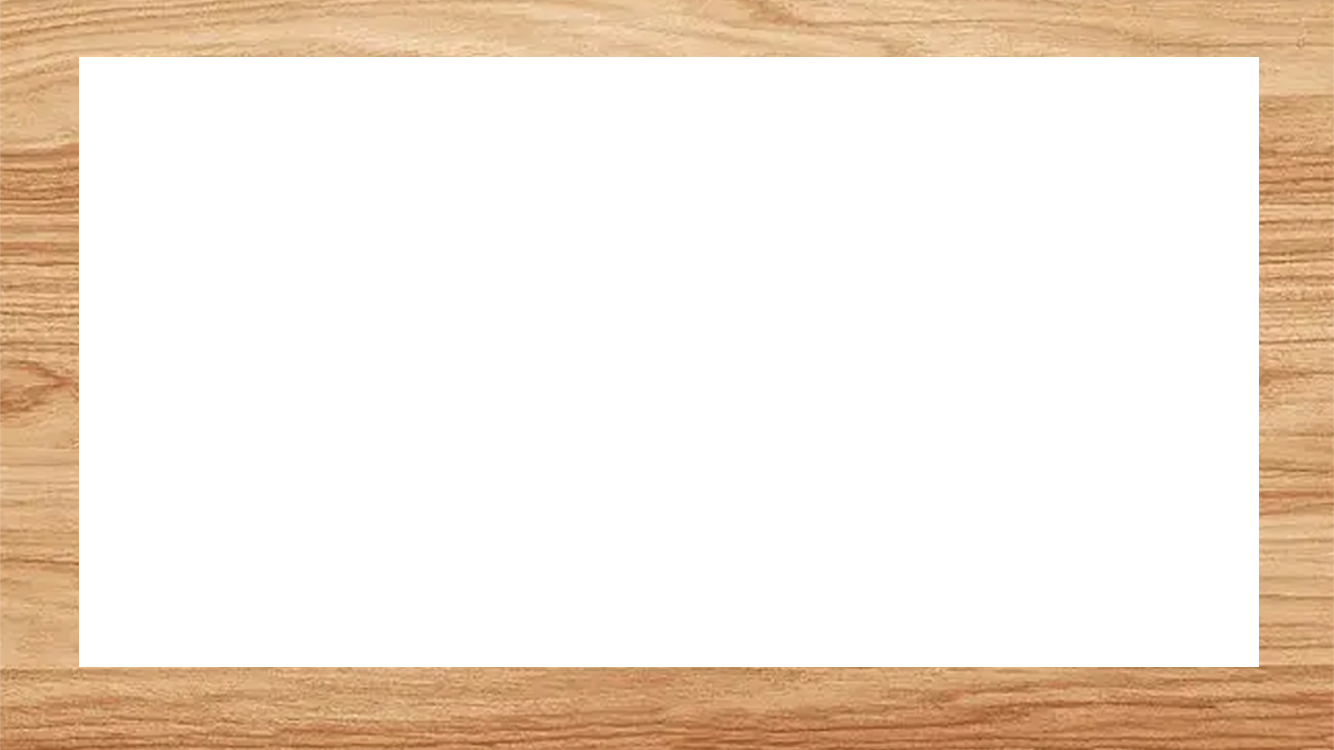
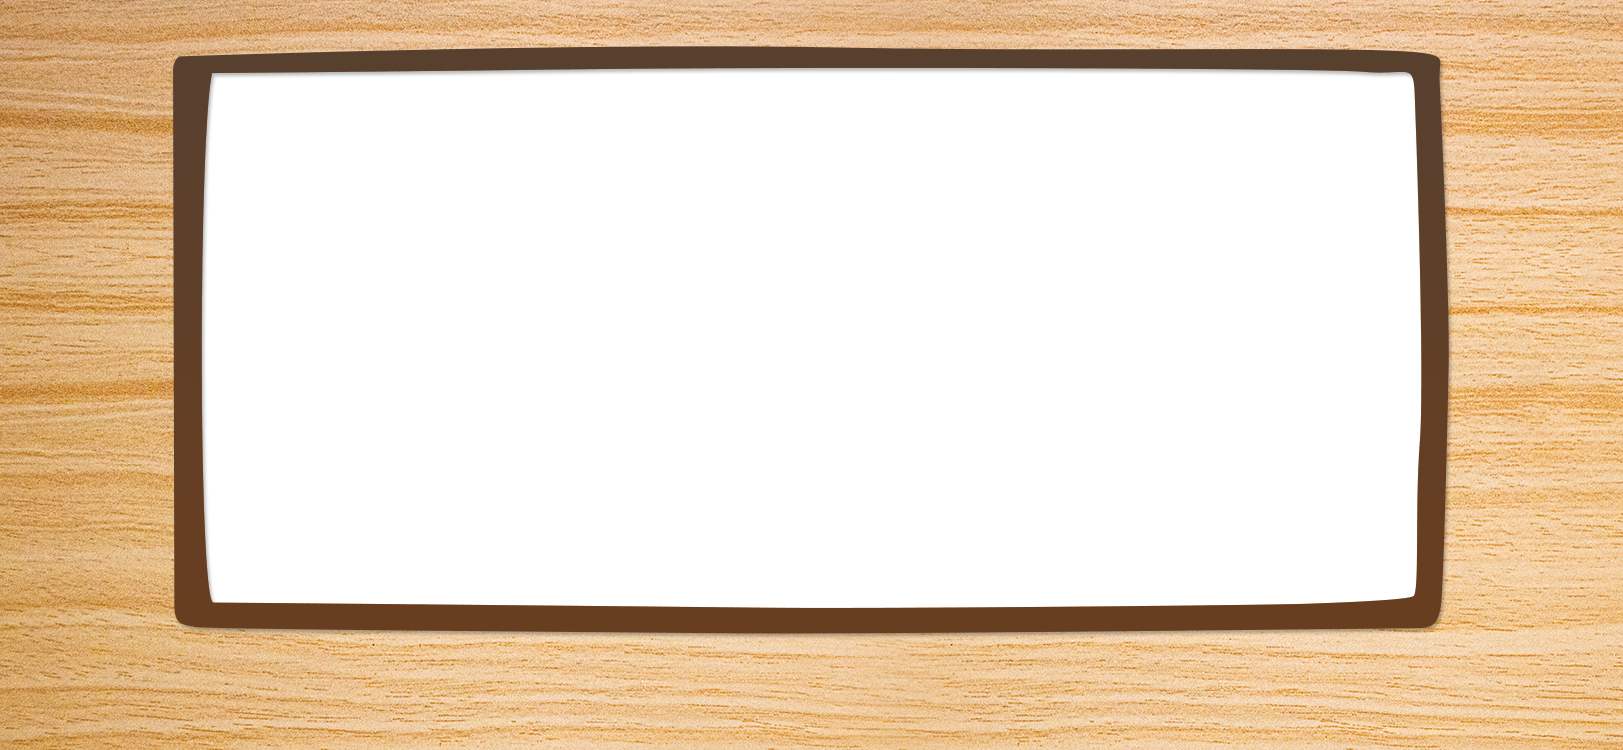
'修改画画'

diff --git a/draw/js/main.min_f98fef74.js b/draw/js/main.min_f98fef74.js
@@ -1,0 +1,1 @@
+var extendStatics=Object.setPrototypeOf||{__proto__:[]}instanceof Array&&function(t,e){t.__proto__=e}||function(t,e){for(var n in e)e.hasOwnProperty(n)&&(t[n]=e[n])},__extends=function(t,e){function n(){this.constructor=t}extendStatics(t,e),t.prototype=null===e?Object.create(e):(n.prototype=e.prototype,new n)},__assign=Object.assign||function(t){for(var e,n=1,r=arguments.length;r>n;n++){e=arguments[n];for(var i in e)Object.prototype.hasOwnProperty.call(e,i)&&(t[i]=e[i])}return t},__rest=function(t,e){var n={};for(var r in t)Object.prototype.hasOwnProperty.call(t,r)&&e.indexOf(r)<0&&(n[r]=t[r]);if(null!=t&&"function"==typeof Object.getOwnPropertySymbols)for(var i=0,r=Object.getOwnPropertySymbols(t);i<r.length;i++)e.indexOf(r[i])<0&&Object.prototype.propertyIsEnumerable.call(t,r[i])&&(n[r[i]]=t[r[i]]);return n},__decorate=function(t,e,n,r){var i,o=arguments.length,a=3>o?e:null===r?r=Object.getOwnPropertyDescriptor(e,n):r;if("object"==typeof Reflect&&"function"==typeof Reflect.decorate)a=Reflect.decorate(t,e,n,r);else for(var s=t.length-1;s>=0;s--)(i=t[s])&&(a=(3>o?i(a):o>3?i(e,n,a):i(e,n))||a);return o>3&&a&&Object.defineProperty(e,n,a),a},__param=function(t,e){return function(n,r){e(n,r,t)}},__metadata=function(t,e){return"object"==typeof Reflect&&"function"==typeof Reflect.metadata?Reflect.metadata(t,e):void 0},__awaiter=function(t,e,n,r){function i(t){return t instanceof n?t:new n(function(e){e(t)})}return new(n||(n=Promise))(function(n,o){function a(t){try{c(r.next(t))}catch(e){o(e)}}function s(t){try{c(r["throw"](t))}catch(e){o(e)}}function c(t){t.done?n(t.value):i(t.value).then(a,s)}c((r=r.apply(t,e||[])).next())})},__generator=function(t,e){function n(t){return function(e){return r([t,e])}}function r(n){if(i)throw new TypeError("Generator is already executing.");for(;c;)try{if(i=1,o&&(a=2&n[0]?o["return"]:n[0]?o["throw"]||((a=o["return"])&&a.call(o),0):o.next)&&!(a=a.call(o,n[1])).done)return a;switch(o=0,a&&(n=[2&n[0],a.value]),n[0]){case 0:case 1:a=n;break;case 4:return c.label++,{value:n[1],done:!1};case 5:c.label++,o=n[1],n=[0];continue;case 7:n=c.ops.pop(),c.trys.pop();continue;default:if(a=c.trys,!(a=a.length>0&&a[a.length-1])&&(6===n[0]||2===n[0])){c=0;continue}if(3===n[0]&&(!a||n[1]>a[0]&&n[1]<a[3])){c.label=n[1];break}if(6===n[0]&&c.label<a[1]){c.label=a[1],a=n;break}if(a&&c.label<a[2]){c.label=a[2],c.ops.push(n);break}a[2]&&c.ops.pop(),c.trys.pop();continue}n=e.call(t,c)}catch(r){n=[6,r],o=0}finally{i=a=0}if(5&n[0])throw n[1];return{value:n[0]?n[1]:void 0,done:!0}}var i,o,a,s,c={label:0,sent:function(){if(1&a[0])throw a[1];return a[1]},trys:[],ops:[]};return s={next:n(0),"throw":n(1),"return":n(2)},"function"==typeof Symbol&&(s[Symbol.iterator]=function(){return this}),s},__exportStar=function(t,e){for(var n in t)"default"===n||e.hasOwnProperty(n)||__createBinding(e,t,n)},__createBinding=Object.create?function(t,e,n,r){void 0===r&&(r=n),Object.defineProperty(t,r,{enumerable:!0,get:function(){return e[n]}})}:function(t,e,n,r){void 0===r&&(r=n),t[r]=e[n]},__values=function(t){var e="function"==typeof Symbol&&Symbol.iterator,n=e&&t[e],r=0;if(n)return n.call(t);if(t&&"number"==typeof t.length)return{next:function(){return t&&r>=t.length&&(t=void 0),{value:t&&t[r++],done:!t}}};throw new TypeError(e?"Object is not iterable.":"Symbol.iterator is not defined.")},__read=function(t,e){var n="function"==typeof Symbol&&t[Symbol.iterator];if(!n)return t;var r,i,o=n.call(t),a=[];try{for(;(void 0===e||e-->0)&&!(r=o.next()).done;)a.push(r.value)}catch(s){i={error:s}}finally{try{r&&!r.done&&(n=o["return"])&&n.call(o)}finally{if(i)throw i.error}}return a},__spread=function(){for(var t=[],e=0;e<arguments.length;e++)t=t.concat(__read(arguments[e]));return t},__spreadArrays=function(){for(var t=0,e=0,n=arguments.length;n>e;e++)t+=arguments[e].length;for(var r=Array(t),i=0,e=0;n>e;e++)for(var o=arguments[e],a=0,s=o.length;s>a;a++,i++)r[i]=o[a];return r},__await=function(t){return this instanceof __await?(this.v=t,this):new __await(t)},__asyncGenerator=function(t,e,n){function r(t){u[t]&&(h[t]=function(e){return new Promise(function(n,r){d.push([t,e,n,r])>1||i(t,e)})})}function i(t,e){try{o(u[t](e))}catch(n){c(d[0][3],n)}}function o(t){t.value instanceof __await?Promise.resolve(t.value.v).then(a,s):c(d[0][2],t)}function a(t){i("next",t)}function s(t){i("throw",t)}function c(t,e){t(e),d.shift(),d.length&&i(d[0][0],d[0][1])}if(!Symbol.asyncIterator)throw new TypeError("Symbol.asyncIterator is not defined.");var h,u=n.apply(t,e||[]),d=[];return h={},r("next"),r("throw"),r("return"),h[Symbol.asyncIterator]=function(){return this},h},__asyncDelegator=function(t){function e(e,i){n[e]=t[e]?function(n){return(r=!r)?{value:__await(t[e](n)),done:"return"===e}:i?i(n):n}:i}var n,r;return n={},e("next"),e("throw",function(t){throw t}),e("return"),n[Symbol.iterator]=function(){return this},n},__asyncValues=function(t){function e(e){r[e]=t[e]&&function(r){return new Promise(function(i,o){r=t[e](r),n(i,o,r.done,r.value)})}}function n(t,e,n,r){Promise.resolve(r).then(function(e){t({value:e,done:n})},e)}if(!Symbol.asyncIterator)throw new TypeError("Symbol.asyncIterator is not defined.");var r,i=t[Symbol.asyncIterator];return i?i.call(t):(t="function"==typeof __values?__values(t):t[Symbol.iterator](),r={},e("next"),e("throw"),e("return"),r[Symbol.asyncIterator]=function(){return this},r)},__makeTemplateObject=function(t,e){return Object.defineProperty?Object.defineProperty(t,"raw",{value:e}):t.raw=e,t},__setModuleDefault=Object.create?function(t,e){Object.defineProperty(t,"default",{enumerable:!0,value:e})}:function(t,e){t["default"]=e},__importStar=function(t){if(t&&t.__esModule)return t;var e={};if(null!=t)for(var n in t)Object.hasOwnProperty.call(t,n)&&__createBinding(e,t,n);return __setModuleDefault(e,t),e},__importDefault=function(t){return t&&t.__esModule?t:{"default":t}},__classPrivateFieldGet=function(t,e){if(!e.has(t))throw new TypeError("attempted to get private field on non-instance");return e.get(t)},__classPrivateFieldSet=function(t,e,n){if(!e.has(t))throw new TypeError("attempted to set private field on non-instance");return e.set(t,n),n},__reflect=function(t,e,n){t.__class__=e,n?n.push(e):n=[e],t.__types__=t.__types__?n.concat(t.__types__):n};!function(t){function e(r){if(n[r])return n[r].exports;var i=n[r]={i:r,l:!1,exports:{}};return t[r].call(i.exports,i,i.exports,e),i.l=!0,i.exports}var n={};return e.m=t,e.c=n,e.d=function(t,n,r){e.o(t,n)||Object.defineProperty(t,n,{enumerable:!0,get:r})},e.r=function(t){"undefined"!=typeof Symbol&&Symbol.toStringTag&&Object.defineProperty(t,Symbol.toStringTag,{value:"Module"}),Object.defineProperty(t,"__esModule",{value:!0})},e.t=function(t,n){if(1&n&&(t=e(t)),8&n)return t;if(4&n&&"object"==typeof t&&t&&t.__esModule)return t;var r=Object.create(null);if(e.r(r),Object.defineProperty(r,"default",{enumerable:!0,value:t}),2&n&&"string"!=typeof t)for(var i in t)e.d(r,i,function(e){return t[e]}.bind(null,i));return r},e.n=function(t){var n=t&&t.__esModule?function(){return t["default"]}:function(){return t};return e.d(n,"a",n),n},e.o=function(t,e){return Object.prototype.hasOwnProperty.call(t,e)},e.p="",e(e.s=0)}([function(t,e,n){n(1),n(2),n(0),n(3),n(4),n(5);var r=function(t){function e(){var e=t.call(this)||this;return e.addEventListener(egret.Event.ADDED_TO_STAGE,e.onAddToStage,e),e}return __extends(e,t),e.prototype.onAddToStage=function(t){egret.lifecycle.addLifecycleListener(function(t){t.onUpdate=function(){}}),egret.lifecycle.onPause=function(){egret.ticker.pause()},egret.lifecycle.onResume=function(){egret.ticker.resume()},this.runGame()["catch"](function(t){console.log(t)})},e.prototype.runGame=function(){return __awaiter(this,void 0,void 0,function(){var t,e;return __generator(this,function(n){switch(n.label){case 0:return[4,this.loadResource()];case 1:return n.sent(),this.createGameScene(),[4,RES.getResAsync("description_json")];case 2:return t=n.sent(),[4,platform.login()];case 3:return n.sent(),[4,platform.getUserInfo()];case 4:return e=n.sent(),console.log(e),[2]}})})},e.prototype.loadResource=function(){return __awaiter(this,void 0,void 0,function(){var t,e;return __generator(this,function(n){switch(n.label){case 0:return n.trys.push([0,3,,4]),t=new LoadingUI,this.stage.addChild(t),[4,RES.loadConfig("resource/default.res.json","resource/")];case 1:return n.sent(),[4,RES.loadGroup("preload",0,t)];case 2:return n.sent(),this.stage.removeChild(t),[3,4];case 3:return e=n.sent(),console.error(e),[3,4];case 4:return[2]}})})},e.prototype.createGameScene=function(){var t=Game.createBitmapByName("indexbg_png");this.stage.addChild(t);var e=Game.createBitmapByName("index_btn_png");this.stage.addChild(e),e.x=800,e.y=400,e.touchEnabled=!0,e.addEventListener(egret.TouchEvent.TOUCH_TAP,this.drawPage,this);var n=Game.createBitmapByName("index_btn_png");this.stage.addChild(n),n.x=400,n.y=400,n.touchEnabled=!0,n.addEventListener(egret.TouchEvent.TOUCH_TAP,this.Coloring,this),this.drawPage()},e.prototype.Coloring=function(){this.colorpage=new Game.colorpage,this.stage.addChild(this.colorpage)},e.prototype.drawPage=function(){this.drawpage=new Game.drawpage,this.stage.addChild(this.drawpage)},e.prototype.createBitmapByName=function(t){var e=new egret.Bitmap,n=RES.getRes(t);return e.texture=n,e},e.prototype.startAnimation=function(t){var e=this,n=new egret.HtmlTextParser,r=t.map(function(t){return n.parse(t)}),i=this.textfield,o=-1,a=function(){o++,o>=r.length&&(o=0);var t=r[o];i.textFlow=t;var n=egret.Tween.get(i);n.to({alpha:1},200),n.wait(2e3),n.to({alpha:0},200),n.call(a,e)};a()},e}(egret.DisplayObjectContainer);window.Main=r,__reflect(r.prototype,"Main",[])},function(t,e){var n,n=window.Game;!function(t){function e(t){var e=t.$bitmapHeight*t.width/t.$bitmapWidth;return e}function n(t){var e=new egret.Bitmap,n=RES.getRes(t);return e.texture=n,e}function r(e,n,r){var i=t.createBitmapByName(e);return i.anchorOffsetX=i.width/2,i.anchorOffsetY=i.height/2,i.x=n,i.y=r,i}function i(e,n,r){var i=t.createBitmapByName(e);return i.x=n,i.y=r,i}function o(t,e,n){t.touchEnabled=!0,t.addEventListener(egret.TouchEvent.TOUCH_TAP,e,n)}function a(t){var e=0;return e=window.innerHeight/window.innerWidth>1450/750?t:(1450-750/window.innerWidth*window.innerHeight)/2+t}function s(t){var e=0;return e=window.innerHeight/window.innerWidth<1450/750?t:(750-1450/window.innerHeight*window.innerWidth)/2+t}function c(t){var e=egret.Tween.get(t,{loop:!1});e.to({scaleX:0,scaleY:0},0),e.to({scaleX:1,scaleY:1},500,egret.Ease.backOut)}function h(t,e,n){var r=egret.Tween.get(t,{loop:!1});r.to({scaleX:.5,scaleY:.5,alpha:0},400,egret.Ease.backIn).call(function(){console.log(typeof n),e.removeChild(t),"function"==typeof n&&n&&n()})}function u(e,n,r){r.removeChild(e),t.boxIn(n)}function d(t){var e=egret.Tween.get(t,{loop:!0});e.to({scaleX:1.03,scaleY:1.03},250),e.to({scaleX:.97,scaleY:.97},500),e.to({scaleX:1,scaleY:1},250)}function l(e,n,r){var i=t.addZhedottap();r.addChild(i);var o=egret.Tween.get(e,{loop:!1});o.to({x:-750},500,egret.Ease.sineOut).call(function(t){r.removeChild(e),r.removeChild(i)});var a=egret.Tween.get(n,{loop:!1});a.to({x:750},0),a.to({x:0},500,egret.Ease.sineOut)}function p(e,n,r){var i=t.addZhedottap();r.addChild(i);var o=egret.Tween.get(e,{loop:!1});o.to({x:750},500,egret.Ease.sineIn).call(function(t){r.removeChild(e),r.removeChild(i)});var a=egret.Tween.get(n,{loop:!1});a.to({x:-750},0),a.to({x:0},500,egret.Ease.sineIn)}function g(){var t=new egret.Sprite;return t.anchorOffsetX=t.width/2,t.anchorOffsetY=t.height/2,t.x=375,t.y=725,t}function f(){var t=new egret.Shape;return t.graphics.beginFill(0),t.graphics.drawRect(0,0,750,1450),t.graphics.endFill(),t.alpha=0,t.touchEnabled=!0,t}function v(t){var e=new egret.Shape;e.graphics.beginFill(0),e.graphics.drawRect(-375,-725,750,1450),e.graphics.endFill(),e.alpha=0,e.touchEnabled=!0,t.addChild(e)}function y(t){var e="",n=Math.floor(t/60)<10?"0"+String(Math.floor(t/60)):String(Math.floor(t/60)),r=Math.floor(t%60)<10?"0"+String(Math.floor(t%60)):String(Math.floor(t%60)),i=1e3*Number((t-Math.floor(t)).toFixed(3)),o="";return o=10>i?"00"+String(i):100>i?"0"+String(i):String(i),e=n+":"+r+":"+o}function w(e,n){var r=this;return new Promise(function(i,o){var a=t.config.istest?t.config.apiurl+t.config.urlPath+e:t.config.urlPath+e,s=new egret.URLLoader;s.dataFormat=egret.URLLoaderDataFormat.TEXT,s.addEventListener(egret.Event.COMPLETE,function(t){var e=t.target,n=e.data;if(n){var r=JSON.parse(String(n));i(r)}},r);var c=new egret.URLRequest(a),h=new egret.URLRequestHeader("openid","o8snajuSxNHS0Ehxnp25TCKC9puk");t.config.istest&&c.requestHeaders.push(h),c.method=egret.URLRequestMethod.POST,c.data=new egret.URLVariables(n),s.load(c)})}var _=function(){function t(){}return t.apiurl="https://h5test.xingkech5.com/car_racing/",t.urlPath="ajax/",t.today="",t.activityDay=["2021-11-01","2021-11-02","2021-11-03","2021-11-04","2021-11-05","2021-11-06","2021-10-29"],t.todayRoad=[],t.myTimes=0,t.istest=!1,t.colorlist=[16777215,16245849,16368957,16231730,15634012,16018213,14366519,16535145,13708875,10472683,3375050,4368816,7224429,4351780,7119913,10533427,8104815,6175517,2563106,12303532],t}();t.config=_,__reflect(_.prototype,"Game.config",[]);var m=function(){function t(){}return t.hitTest=function(t,e){var n=t.getBounds(),r=e.getBounds();return n.x=t.x,n.y=t.y,r.x=e.x-60,r.y=e.y,n.intersects(r)},t.hitTestporn=function(t,e,n){var r,i=n.getBounds();return r.x=t,r.y=e,i.x=n.x-60,i.y=n.y,r.intersects(i)},t}();t.GameUtil=m,__reflect(m.prototype,"Game.GameUtil",[]),t.autoHeight=e,t.createBitmapByName=n,t.addChildFastCen=r,t.addChildFast=i,t.touchTap=o,t.autoY=a,t.autoX=s,t.boxIn=c,t.boxOut=h,t.boxOutIn=u,t.btnpluse=d,t.pagego=l,t.pageback=p,t.creatTanchuan=g,t.addZhedottap=f,t.addZhe=v,t.timeToString=y,t.urlRequest=w}(n||(n={})),window.Game=n},function(t,e){var n=function(t){function e(){var e=t.call(this)||this;return e.createView(),e}return __extends(e,t),e.prototype.createView=function(){this.textField=new egret.TextField,this.addChild(this.textField),this.textField.y=300,this.textField.width=480,this.textField.height=100,this.textField.textAlign="center"},e.prototype.onProgress=function(t,e){this.textField.text="Loading..."+t+"/"+e},e}(egret.Sprite);window.LoadingUI=n,__reflect(n.prototype,"LoadingUI",["RES.PromiseTaskReporter"])},function(t,e){var n=function(){function t(){}return t.prototype.getUserInfo=function(){return __awaiter(this,void 0,void 0,function(){return __generator(this,function(t){return[2,{nickName:"username"}]})})},t.prototype.login=function(){return __awaiter(this,void 0,void 0,function(){return __generator(this,function(t){return[2]})})},t}();window.DebugPlatform=n,__reflect(n.prototype,"DebugPlatform",["Platform"]),window.platform||(window.platform=new n)},function(t,e){var n,n=window.Game;!function(t){var e=function(e){function n(){var t=e.call(this)||this;return t.color=0,t.drawthings=[],t.applesvg=[{type:"moveTo",props:{x:75.5,y:24.5,relative:!1}},{type:"curveTo",props:{x1:75.5,y1:24.5,x2:69.5,y2:-.5,x:25.5,y:7.5,relative:!1}},{type:"curveTo",props:{x1:25.5,y1:7.5,x2:-30.5,y2:33.5,x:29.5,y:110.5,relative:!1}},{type:"lineTo",props:{x:58.5,y:129.5,relative:!1}},{type:"curveTo",props:{x1:58.5,y1:129.5,x2:69.5,y2:119.5,x:74.5,y:119.5,relative:!1}},{type:"curveTo",props:{x1:79.5,y1:119.5,x2:87.5,y2:125.5,x:90.5,y:128.5,relative:!1}},{type:"curveTo",props:{x1:93.5,y1:131.5,x2:144.5,y2:88.5,x:141.5,y:58.5,relative:!1}},{type:"curveTo",props:{x1:141.5,y1:58.5,x2:150.5,y2:27.5,x:130.5,y:9.5,relative:!1}},{type:"curveTo",props:{x1:130.5,y1:9.5,x2:105.5,y2:-15.5,x:75.5,y:24.5,relative:!1}},{type:"close",props:null}],t.addEventListener(egret.Event.ADDED_TO_STAGE,t.onAddToStage,t),t}return __extends(n,e),n.prototype.onAddToStage=function(){this.removeEventListener(egret.Event.ADDED_TO_STAGE,this.onAddToStage,this),this.gamebg()},n.prototype.gamebg=function(){var e=t.createBitmapByName("indexbg_png");this.addChild(e),this.drawboxfn()},n.prototype.drawboxfn=function(){this.drawbox=new egret.Shape,this.drawbox.graphics.beginFill(16777215),this.drawbox.graphics.drawRect(100,50,1134,600),this.drawbox.graphics.endFill(),this.addChild(this.drawbox),this.penListfn(),this.drawInit("apple",2)},n.prototype.penListfn=function(){this.penList=new egret.Sprite,this.addChild(this.penList);for(var e=0;20>e;e++){var n=t.createBitmapByName("pen1_png");this.penList.addChild(n),n.touchEnabled=!0,n.addEventListener(egret.TouchEvent.TOUCH_TAP,this.chooseColor,this),n.width=.9*n.width,n.height=t.autoHeight(n),n.anchorOffsetY=n.height,n.x=e*(n.width+3)+20,n.y=780,n.color=t.config.colorlist[e]}},n.prototype.chooseColor=function(t){this.color=t.currentTarget.color,this.penList.$children.forEach(function(t){t.y=780}),t.currentTarget.y=760},n.prototype.chooseimg=function(t){var e=t.currentTarget.id;for(var n in this.drawthings){var r=this.drawthings[n][0];r.touchEnabled=!1,r.removeEventListener(egret.TouchEvent.TOUCH_MOVE,this.onMove,this),r.removeEventListener(egret.TouchEvent.TOUCH_BEGIN,this.touchbegin,this),r.removeEventListener(egret.TouchEvent.TOUCH_END,this.onEnd,this),r.removeEventListener(egret.TouchEvent.TOUCH_RELEASE_OUTSIDE,this.onEnd,this)}var i=this.drawthings[e-1][0];this.drawthings[e-1][1];i.touchEnabled=!0,i.addEventListener(egret.TouchEvent.TOUCH_BEGIN,this.touchbegin,this),i.addEventListener(egret.TouchEvent.TOUCH_END,this.onEnd,this),i.addEventListener(egret.TouchEvent.TOUCH_RELEASE_OUTSIDE,this.onEnd,this)},n.prototype.touchbegin=function(t){console.log(t.currentTarget.name);var e=t.currentTarget;this.lastPoint=new egret.Point(t.localX+e.x,t.localY+e.y),e.addEventListener(egret.TouchEvent.TOUCH_MOVE,this.onMove,this)},n.prototype.drawInit=function(e,n){for(var r=20,i=100,o=1;n>=o;o++){var a=t.createBitmapByName(e+"_c"+o+"_png");this.addChild(a),a.id=o,a.touchEnabled=!0,a.addEventListener(egret.TouchEvent.TOUCH_TAP,this.chooseimg,this),a.x=r,a.y=i+(o-1)*(a.height+30);var s=t.createBitmapByName(e+o+"_png");s.name="area"+o,s.id=o,s.x=this.stage.width/2-s.width/2,s.y=this.stage.height/2-s.height/2,s.touchEnabled=!1,this.addChild(s);var c=t.createBitmapByName(e+o+"_png");c.x=s.x,c.y=s.y,this.addChild(c);var h=new egret.Sprite;this.addChild(h),h.mask=c;var u=[s,h];this.drawthings.push(u)}this.drawGroup=new egret.Sprite,this.addChild(this.drawGroup)},n.prototype.onMove=function(t){console.log(t.currentTarget.name);var e=new egret.Shape;e.graphics.lineStyle(30,this.color),e.graphics.moveTo(this.lastPoint.x,this.lastPoint.y),e.graphics.lineTo(t.localX+t.currentTarget.x,t.localY+t.currentTarget.y);var n=t.currentTarget.id,r=this.drawthings[n-1][1];r.addChild(e),this.lastPoint.x=t.localX+t.currentTarget.x,this.lastPoint.y=t.localY+t.currentTarget.y},n.prototype.onEnd=function(t){this.lastPoint=null,t.currentTarget.removeEventListener(egret.TouchEvent.TOUCH_MOVE,this.onMove,this);var e=t.currentTarget.id,n=this.drawthings[e-1][1];this.repaint(n)},n.prototype.getGraph=function(t,e){t.graphics.lineStyle(2,0),t.graphics.beginFill(Number(0)),e.forEach(function(e){switch(e.type){case"moveTo":t.graphics.moveTo(e.props.x,e.props.y);break;case"lineTo":t.graphics.lineTo(e.props.x,e.props.y);break;case"curveTo":t.graphics.curveTo(e.props.x2,e.props.y2,e.props.x,e.props.y)}})},n.prototype.repaint=function(t){var e=new egret.RenderTexture;e.drawToTexture(t),console.log(e.toDataURL("image/png"));var n=new egret.Bitmap(e);t.removeChildren(),t.addChild(n)},n}(egret.DisplayObjectContainer);t.colorpage=e,__reflect(e.prototype,"Game.colorpage",[])}(n||(n={})),window.Game=n},function(t,e){var n,n=window.Game;!function(t){var e=function(e){function n(){var t=e.call(this)||this;return t.strokes=[],t._currentStroke={color:0,size:0,lines:[]},t.color=0,t.pensize=5,t._sketching=!1,t.drawLog=[],t._cursorPosition=function(t){return{x:t.localX,y:t.localY}},t.addEventListener(egret.Event.ADDED_TO_STAGE,t.onAddToStage,t),t}return __extends(n,e),n.prototype.onAddToStage=function(){this.removeEventListener(egret.Event.ADDED_TO_STAGE,this.onAddToStage,this),this.gamebg()},n.prototype.gamebg=function(){this.drawbg=t.createBitmapByName("indexbg_png"),this.drawbg.touchEnabled=!0,this.addChild(this.drawbg),this.drawbg.addEventListener(egret.TouchEvent.TOUCH_BEGIN,this.ontouchstart,this),this.drawbg.addEventListener(egret.TouchEvent.TOUCH_END,this.ontouchEnd,this),this.drawbg.addEventListener(egret.TouchEvent.TOUCH_RELEASE_OUTSIDE,this.ontouchEnd,this),this.drawbg.addEventListener(egret.TouchEvent.TOUCH_CANCEL,this.ontouchEnd,this),this.drawbg.addEventListener(egret.TouchEvent.REMOVED_FROM_STAGE,this.ontouchEnd,this),this.drawboxfn()},n.prototype.drawboxfn=function(){this.drawbox=new egret.Shape,this.drawbox.graphics.beginFill(16777215),this.drawbox.graphics.drawRect(100,50,1360,600),this.drawbox.graphics.endFill(),this.addChild(this.drawbox),this.drawlineGroup=new egret.Sprite,this.addChild(this.drawlineGroup);var e=t.createBitmapByName("hua_zhe_png");this.addChild(e),this.penListfn();var n=30,r=t.createBitmapByName("save_btn_png");this.addChild(r),r.width=.54*r.width,r.height=t.autoHeight(r),r.x=this.stage.width-r.width-n,r.y=50,r.touchEnabled=!0;var i=t.createBitmapByName("back_btn_png");this.addChild(i),i.width=.54*i.width,i.height=t.autoHeight(i),i.x=r.x,i.y=r.y+r.height+20,i.touchEnabled=!0,i.addEventListener(egret.TouchEvent.TOUCH_TAP,this.drawback,this);var o=t.createBitmapByName("delete_btn_png");this.addChild(o),o.width=.54*o.width,o.height=t.autoHeight(o),o.x=r.x,o.y=i.y+i.height+20,o.touchEnabled=!0,o.addEventListener(egret.TouchEvent.TOUCH_TAP,this.cleanAll,this);var a=t.createBitmapByName("pen_btn_png");this.addChild(a),a.width=.54*a.width,a.height=t.autoHeight(a),a.x=this.stage.width-a.width-25-n,a.y=o.y+o.height+40,a.touchEnabled=!0,a.addEventListener(egret.TouchEvent.TOUCH_TAP,this.bichufn,this),this.bichuGroup=new egret.Sprite,this.addChild(this.bichuGroup),this.bichuGroup.visible=!1;var s=t.createBitmapByName("bichu_png");this.bichuGroup.addChild(s),s.$anchorOffsetX=s.width,s.x=a.x-10,s.y=120,s.touchEnabled=!0,s.addEventListener(egret.TouchEvent.TOUCH_TAP,this.bisizeChoose,this),this.bichuk=t.createBitmapByName("bichuk_png"),this.bichuGroup.addChild(this.bichuk),this.bichuk.anchorOffsetX=this.bichuk.width,this.bichuk.x=s.x-30,this.bichuk.y=140},n.prototype.bisizeChoose=function(t){for(var e=0,n=7;n>=0;n--){var r=53.5*n+14;if(t.localY>=r){e=n;break}}var i=53.5*e+14+126,o=egret.Tween.get(this.bichuk,{loop:!1});o.to({y:i},300,egret.Ease.backOut),this.pensize=3+5*e,console.log(this.pensize)},n.prototype.bichufn=function(){this.bichuGroup.visible=!this.bichuGroup.visible},n.prototype.penListfn=function(){this.penList=new egret.Sprite,this.addChild(this.penList);for(var e=(this.stage.width-1300)/2,n=0;20>n;n++){var r=n+1,i=t.createBitmapByName("pen"+r+"_png");this.penList.addChild(i),i.touchEnabled=!0,i.addEventListener(egret.TouchEvent.TOUCH_TAP,this.chooseColor,this),i.width=62,i.height=t.autoHeight(i),i.anchorOffsetY=i.height,i.x=n*(i.width+3)+e,i.y=780,i.color=t.config.colorlist[n]}},n.prototype.chooseColor=function(t){this.color=t.currentTarget.color,this.penList.$children.forEach(function(t){t.y=780}),t.currentTarget.y=760},n.prototype.xiangpifn=function(){this.color=16777215,this.penList.$children.forEach(function(t){t.y=780})},n.prototype.ontouchstart=function(t){this._sketching||(this._sketching=!0,this.lastPoint=this._cursorPosition(t),this.drawbg.addEventListener(egret.TouchEvent.TOUCH_MOVE,this.ontouchmove,this))},n.prototype.drawfn=function(t,e,n,r){var i=new egret.Shape;i.graphics.lineStyle(n,r),i.graphics.moveTo(t.x,t.y),i.graphics.lineTo(e.x,e.y),i.name="Line"+this.strokes.length,this.drawlineGroup.addChild(i)},n.prototype.ontouchmove=function(t){var e=this._cursorPosition(t);this.drawfn(this.lastPoint,e,this.pensize,this.color),this.lastPoint.x=t.localX,this.lastPoint.y=t.localY},n.prototype.ontouchEnd=function(){this._sketching&&(this.strokes.push(this._currentStroke),this._sketching=!1),this.drawbg.removeEventListener(egret.TouchEvent.TOUCH_MOVE,this.ontouchmove,this),this.repaint(this.drawlineGroup)},n.prototype.drawback=function(){this.drawLog.pop(),this.drawlineGroup.removeChildren(),this.drawLog.length>0&&this.drawlineGroup.addChild(this.drawLog[this.drawLog.length-1])},n.prototype.cleanAll=function(){this.drawlineGroup.removeChildren(),this.drawLog=[]},n.prototype.repaint=function(t){var e=new egret.RenderTexture;e.drawToTexture(t);var n=new egret.Bitmap(e);this.drawLog.push(n),t.removeChildren(),t.addChild(n)},n}(egret.DisplayObjectContainer);t.drawpage=e,__reflect(e.prototype,"Game.drawpage",[])}(n||(n={})),window.Game=n}]);

diff --git a/draw/index.html b/draw/index.html
@@ -5,7 +5,7 @@
             border: 0;
             margin: 0;
             height: 100%;
-        }</style></head><body><div style="margin: auto;width: 100%;height: 100%;" class="egret-player" data-entry-class="Main" data-orientation="landscapeFlipped" data-scale-mode="showAll" data-frame-rate="60" data-content-width="1334" data-content-height="750" data-show-paint-rect="false" data-multi-fingered="2" data-show-fps="true" data-show-log="false" data-show-fps-style="x:0,y:0,size:12,textColor:0xffffff,bgAlpha:0.9"></div><script>var loadScript = function (list, callback) {
+        }</style></head><body><div style="margin: auto;width: 100%;height: 100%;" class="egret-player" data-entry-class="Main" data-orientation="landscapeFlipped" data-scale-mode="showAll" data-frame-rate="60" data-content-width="1623" data-content-height="750" data-show-paint-rect="false" data-multi-fingered="2" data-show-fps="true" data-show-log="false" data-show-fps-style="x:0,y:0,size:12,textColor:0xffffff,bgAlpha:0.9"></div><script>var loadScript = function (list, callback) {
         var loaded = 0;
         var loadNext = function () {
             loadSingleScript(list[loaded], function () {
